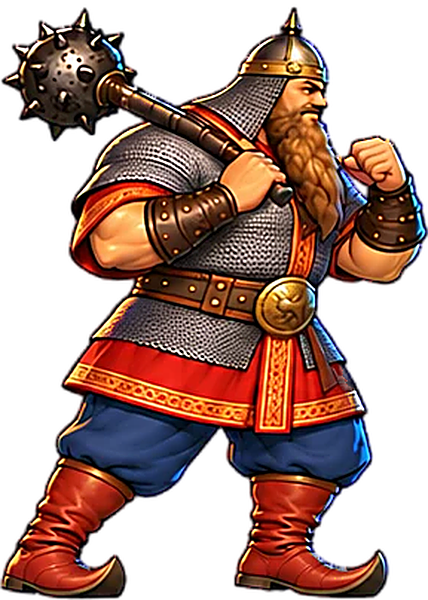
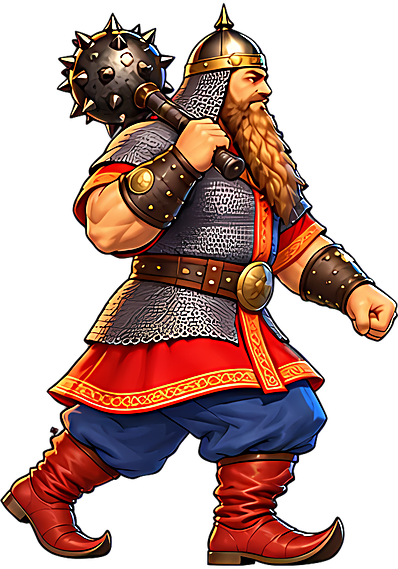
3.17.11: Илья — живая ходьба: свободная рука качается, булава подпрыгивает, тело оседает; кадры через апскейлер
Новые листы walk_f/walk_b (старые — old_walk_*_v2). process_fighter_art.py: upscale: true в sheets.json —
увеличить исходник нейросетью и у бойца обычного разрешения. Покачивание из кода для Ильи выключено —
тело качается на самих кадрах. Исправленные промпты (ровно две руки) — в docs/ART_FIGHTERS.md.

Claude-Session: https://claude.ai/code/session_01PuLoWavph6cepVw7e2qgzV

diff --git a/bitva-legend/tools/process_fighter_art.py b/bitva-legend/tools/process_fighter_art.py
@@ -15,6 +15,8 @@
        "h:<кадр>:<px>"   — кадр № <кадр> высотой <px> (1440p): для приседа, блока, прыжка;
        число           — масштаб вручную.
   grid: [столбцов, рядов] — лист сеткой (8 кадров = [4, 2], 12 = [4, 3]); порядок — слева направо, сверху вниз.
+  upscale: true — увеличить исходник нейросетью (tools/upscale.py) и у бойца обычного разрешения:
+           кадры чётче, размер в игре тот же.
   bob: 0.02 — ходьба: игра покачивает тело в такт шагу (насколько оседает, доля роста).
   reverse: true — проигрывать задом наперёд (шаг назад, нарисованный как шаг вперёд).
   hit / hit_end: номера ударных кадров (с 1) — показываются в активной фазе удара; до них — замах, после — возврат.
@@ -66,9 +68,10 @@ def clear_border(img: Image.Image, px: int = 3) -> Image.Image:
     return Image.fromarray(a, "RGBA")
 
 
-def src_image(p: Path, who: str) -> Image.Image:
-    """Исходник листа; для бойцов с двойным разрешением — увеличенный нейросетью (кэш в <папка>/.x2/)."""
-    if RES.get(who, 1) == 1:
+def src_image(p: Path, who: str, up: bool = False) -> Image.Image:
+    """Исходник листа; для бойцов с двойным разрешением (или листа с upscale) — увеличенный нейросетью
+    (кэш в <папка>/.x2/)."""
+    if RES.get(who, 1) == 1 and not up:
         return Image.open(p)
     cache = p.parent / ".x2" / (p.stem + ".png")
     if not cache.exists() or cache.stat().st_mtime < p.stat().st_mtime:
@@ -290,7 +293,7 @@ def main() -> int:
         name = p.stem
         opt = cfg.get(name, {})
         group = [f for _, f in sorted(parts[name])]
-        raw = src_image(group[0], who)
+        raw = src_image(group[0], who, opt.get("upscale", False))
         heights[name] = raw.height
         if len(group) == 1:
             frames = frames_of(chroma_key(raw), opt.get("frames", 0), opt.get("grid"))
@@ -301,7 +304,7 @@ def main() -> int:
             pf = opt.get("part_frames", 0)
             for i, f in enumerate(group):
                 n = pf[i] if isinstance(pf, list) else pf
-                part = frames_of(chroma_key(src_image(f, who)), n, opt.get("grid"))
+                part = frames_of(chroma_key(src_image(f, who, opt.get("upscale", False))), n, opt.get("grid"))
                 if "parts_fit" in opt:
                     k = _fit_scale(opt["parts_fit"][i], part, who)
                     part = [x.resize((max(1, round(x.width * k)), max(1, round(x.height * k))), Image.LANCZOS)

diff --git a/bitva-legend/docs/ART_FIGHTERS.md b/bitva-legend/docs/ART_FIGHTERS.md
@@ -1094,27 +1094,30 @@ Edit task. Image 1 is the approved model sheet of KOSCHEI THE DEATHLESS. Image 2
 Edit task. Image 1 is the approved model sheet of KOSCHEI THE DEATHLESS. Image 2 is his approved FIGHTING STANCE sprite sheet — copy his size, proportions and pose from its FIRST frame. Redraw THIS EXACT character — KOSCHEI THE DEATHLESS — copy his design faithfully: the same gaunt stooped body and long thin limbs, the same grey-green parchment-skinned old face with a long hooked nose, sunken cheeks and small glowing green eyes, the same long thin stringy grey hair and long grey beard, the same spiky tarnished gold crown, the same rusty dented steel cuirass with pauldrons, the small skull emblems and the heavy gold chains, the same ragged dark bottle-green robe with tarnished gold ornament and torn hem, the same old pointed black boots, the same bony hands with long dark claws and gold rings, the same long rusty straight sword with a gold cross-guard; the same colors, line thickness and shading. Do NOT redesign anything, do not add or remove details, only change the pose. SIZE LOCK: draw him at EXACTLY the same scale as in image 2 in every frame — the head, the crown, the hands and the sword are exactly the same size in all frames; only the pose changes, the proportions never change. New content: a sprite sheet of 4 animation frames in ONE horizontal row, left to right, evenly spaced with wide empty magenta space between the frames, no frame touches another or the image edge; make him as large as possible while keeping all frames the same scale. Strict side view facing RIGHT, full body visible. Anatomy rules for EVERY frame: correct human anatomy, EXACTLY TWO arms, two hands and two legs — count them, there is NO third arm and NO extra hand anywhere; natural joints; the head stays on top of the neck; the face is visible in profile. The sword stays in his right hand and never changes length. The soles stand on one flat horizontal ground line in every frame. Frame 1 and the last frame are EXACTLY the fighting stance pose of image 2 (its first frame) — the attack starts from this pose and returns to it. Animation: ROUNDHOUSE (forward + heavy kick) — a powerful spinning backhand slash with the sword. Frame 1: the stance. Frame 2: he spins — the back turned toward the viewer for a moment, the sword swung behind him, the robe and hair whirling around him. Frame 3: the sword swung around and forward to the RIGHT at head height in a wide horizontal arc, the arm fully extended, he faces RIGHT again, the robe still swirling. Frame 4: the stance again. Smooth fluid animation like Street Fighter III: the IDENTICAL character in every frame, only the pose changes, gradually from frame to frame. HD hand-painted cartoon style, bold clean dark-plum outline (#24141F), cel shading with 2–3 tones and soft gradients, crisp sharp details, no blur, no motion smear, no speed lines, no trails. Cold green light on the left side, a warm tarnished-gold rim light on the right. Background: perfectly flat solid magenta #FF00FF, no gradient, no floor, no cast shadow, NO dust clouds, no glow. Do not use pink, magenta, purple or violet anywhere on the character or effects. NO text, NO frame numbers, NO watermark, NO borders.
 ```
 
-## Илья: живая ходьба — руки и тело в движении (3.17.10)
+## Илья: живая ходьба — руки и тело в движении (3.17.10–3.17.11)
 
 Прежние листы ходьбы (3.4.5) рисовались «в стойке»: кулак у подбородка и булава на плече одинаковые во всех
-8 кадрах, двигаются только ноги — Илья идёт, как манекен. Новые листы: свободная рука качается против ног,
-булава подпрыгивает на плече, плечи поворачиваются, тело оседает и поднимается. 8 кадров на два шага —
-столько же, сколько сейчас (12 кадров в секунду): плавность даёт содержание кадров, а не их число.
+8 кадрах, двигаются только ноги — Илья идёт, как манекен. Новые листы: свободная рука качается, булава
+подпрыгивает на плече, плечи поворачиваются, тело оседает и поднимается. 8 кадров на два шага —
+столько же, сколько раньше (12 кадров в секунду): плавность даёт содержание кадров, а не их число.
 
-Игра сама добавляет лёгкое покачивание тела в такт шагу (`bob` в `sheets.json`, 2 % роста), так что
-на листе тело можно качать умеренно. Если новые кадры качаются сильно — уменьшить `bob` или убрать.
+✅ В игре с 3.17.11. Исходники пропущены через нейросетевой апскейлер (`"upscale": true` в `sheets.json`),
+прежние — `old_walk_f_v2`, `old_walk_b_v2`. Тело на новых листах качается само, поэтому покачивание из
+кода (`bob`) для Ильи выключено; оно остаётся для листов, где тело застыло.
 
-Положить в `art_src/fighters/ilya/` как `walk_f.png` и `walk_b.png` (старые — переименовать в `old_walk_f_v2`,
-`old_walk_b_v2`), затем `python3 tools/process_fighter_art.py ilya`.
+Первая попытка (без раздела ANATOMY) дала третью руку в кадрах 4–5: свободная рука — дальняя от зрителя,
+и когда она уходит за спину, нейросеть дорисовывает висящую руку на ближней стороне, занятой булавой.
+Поэтому в промптах прямо сказано, какая рука держит булаву и никогда не опускается, рука качается
+только перед телом и рук ровно две.
 
 ### Илья — шаг вперёд, 8 кадров (живая ходьба) (`ilya/walk_f`), 16:9, сетка 4×2
 
 ```
-Sprite sheet for a 2D fighting game: 8 animation frames of the SAME character arranged in a neat grid of 4 columns × 2 rows, in reading order (left to right, then the next row), each frame centered in its own equal cell with wide empty magenta space around it, no frame touches another frame or the image edge. The character is ILYA MUROMETS exactly as in the attached model sheet: cartoon giant bogatyr with a huge barrel chest, broad shoulders, short sturdy legs, thick light-brown beard to the belt, pointed conical steel shishak helmet with a chainmail aventail, short-sleeved chainmail shirt over a long crimson-red kaftan with golden ornamental trim, leather bracers with bronze studs, wide brown belt with a big round bronze buckle, baggy dark-blue trousers, red leather boots with upturned toes, massive spiked iron mace. Strict side view facing RIGHT, full body visible, the same size in every frame, the feet stand on the same flat horizontal ground line inside every cell. Animation: a heavy, confident, NATURAL WALKING FORWARD loop of a strong warrior — the WHOLE BODY moves, not only the legs. He carries the mace on his shoulder with the rear hand; the FREE ARM (the arm without the mace) SWINGS naturally, opposite to the legs: forward when the opposite leg is forward, back behind the hip when the same-side leg is forward. The mace bounces slightly on the shoulder with every step, the rear elbow moves with it. The shoulders and chest turn a little with each step, the beard and kaftan hem sway. The body sinks on each step and rises between steps. One full cycle (two steps) over 8 frames, walking IN PLACE (stays centered in each cell). Frame 1: LEFT leg forward with the heel touching the ground, right leg behind on its toes; the free arm swung FORWARD at chest height with a loose fist; the mace tilted slightly back. Frame 2: weight lands on the left leg, knee bent, body at its LOWEST; the free arm still forward and starting to come down; the mace dips down with the impact. Frame 3: the right leg lifts and passes under the body; the free arm swings DOWN past the hip; the mace level; body rising. Frame 4: body at its HIGHEST, the right leg swinging forward; the free arm swinging BACK behind the hip; the mace bounces up. Frame 5: RIGHT leg forward with the heel touching the ground, left leg behind on its toes; the free arm fully BACK behind the hip, the shoulders turned the other way. Frame 6: weight lands on the right leg, knee bent, body at its LOWEST; the free arm back, starting to come forward; the mace dips down. Frame 7: the left leg lifts and passes under the body; the free arm swings FORWARD past the hip; body rising. Frame 8: body at its HIGHEST, the left leg swinging forward; the free arm coming up to chest height, back to the pose before frame 1 so the loop is seamless. Every frame is a DIFFERENT pose — no two neighbouring frames look the same; the arm, the mace, the shoulders and the head all move from frame to frame. Smooth fluid animation like Street Fighter III: the IDENTICAL character design, proportions, size, colors and details in every frame — only the pose changes, and it changes gradually from frame to frame. HD hand-painted cartoon style like modern 2D fighting games (Skullgirls, BlazBlue), bold clean dark-plum outline (#24141F), cel shading with 2–3 tones and soft gradients, crisp sharp details. Warm key light from the upper left, cool pale-blue rim light on the right side. Background: perfectly flat solid magenta #FF00FF, no gradient, no floor, no cast shadow, no dust clouds. Do not use pink, magenta or purple anywhere on the character or effects. NO text, NO frame numbers, NO watermark, NO grid lines, NO borders.
+Sprite sheet for a 2D fighting game: 8 animation frames of the SAME character arranged in a neat grid of 4 columns × 2 rows, in reading order (left to right, then the next row), each frame centered in its own equal cell with wide empty magenta space around it, no frame touches another frame or the image edge. The character is ILYA MUROMETS exactly as in the attached model sheet: cartoon giant bogatyr with a huge barrel chest, broad shoulders, short sturdy legs, thick light-brown beard to the belt, pointed conical steel shishak helmet with a chainmail aventail, short-sleeved chainmail shirt over a long crimson-red kaftan with golden ornamental trim, leather bracers with bronze studs, wide brown belt with a big round bronze buckle, baggy dark-blue trousers, red leather boots with upturned toes, massive spiked iron mace. Strict side view facing RIGHT, full body visible, the same size in every frame, the feet stand on the same flat horizontal ground line inside every cell. ANATOMY — EXACTLY TWO ARMS AND TWO HANDS in every frame, never a third arm or an extra hand: (1) the NEAR arm (his left arm, the one closest to the viewer) is bent with the elbow down and the hand gripping the mace handle at the shoulder; the mace rests on that shoulder; this arm NEVER hangs down, NEVER swings and never lets go of the mace; (2) the FAR arm (his right arm, on the far side of the body) is the ONLY arm that swings. The far arm swings only IN FRONT of the body: from a loose fist forward at chest height down to the hand beside the front of the hip; it NEVER goes behind the back and is never drawn on the near side of the body. Animation: a heavy, confident, NATURAL WALKING FORWARD loop of a strong warrior — the whole body moves, not only the legs: the far arm swings opposite to the legs, the mace bounces slightly on the shoulder with every step, the shoulders turn a little, the beard and kaftan hem sway, the body sinks on each step and rises between steps. One full cycle (two steps) over 8 frames, walking IN PLACE (stays centered in each cell). Frame 1: LEFT leg forward with the heel touching the ground, right leg behind on its toes; the far arm swung FORWARD, fist at chest height. Frame 2: weight lands on the left leg, knee bent, body at its LOWEST; the far arm forward, starting to come down; the mace dips with the impact. Frame 3: the right leg lifts and passes under the body; the far arm halfway down, fist at belt height in front of the belly; body rising. Frame 4: body at its HIGHEST, the right leg swinging forward; the far arm DOWN, fist beside the front of the hip; the mace bounces up. Frame 5: RIGHT leg forward with the heel touching the ground, left leg behind on its toes; the far arm DOWN, fist beside the front of the hip, the shoulders turned slightly the other way. Frame 6: weight lands on the right leg, knee bent, body at its LOWEST; the far arm starting to come forward; the mace dips. Frame 7: the left leg lifts and passes under the body; the far arm halfway up, fist at belt height in front of the belly; body rising. Frame 8: body at its HIGHEST, the left leg swinging forward; the far arm coming up to chest height, back to the pose before frame 1 so the loop is seamless. In EVERY frame the near hand is on the mace at the shoulder and the only other visible hand is the far fist in front of the body. Every frame is a DIFFERENT pose — no two neighbouring frames look the same. Smooth fluid animation like Street Fighter III: the IDENTICAL character design, proportions, size, colors and details in every frame — only the pose changes, and it changes gradually from frame to frame. HD hand-painted cartoon style like modern 2D fighting games (Skullgirls, BlazBlue), bold clean dark-plum outline (#24141F), cel shading with 2–3 tones and soft gradients, crisp sharp details. Warm key light from the upper left, cool pale-blue rim light on the right side. Background: perfectly flat solid magenta #FF00FF, no gradient, no floor, no cast shadow, no dust clouds. Do not use pink, magenta or purple anywhere on the character or effects. NO text, NO frame numbers, NO watermark, NO grid lines, NO borders.
 ```
 
 ### Илья — шаг назад, 8 кадров (живая ходьба) (`ilya/walk_b`), 16:9, сетка 4×2
 
 ```
-Sprite sheet for a 2D fighting game: 8 animation frames of the SAME character arranged in a neat grid of 4 columns × 2 rows, in reading order (left to right, then the next row), each frame centered in its own equal cell with wide empty magenta space around it, no frame touches another frame or the image edge. The character is ILYA MUROMETS exactly as in the attached model sheet: cartoon giant bogatyr with a huge barrel chest, broad shoulders, short sturdy legs, thick light-brown beard to the belt, pointed conical steel shishak helmet with a chainmail aventail, short-sleeved chainmail shirt over a long crimson-red kaftan with golden ornamental trim, leather bracers with bronze studs, wide brown belt with a big round bronze buckle, baggy dark-blue trousers, red leather boots with upturned toes, massive spiked iron mace. Strict side view facing RIGHT, full body visible, the same size in every frame, the feet stand on the same flat horizontal ground line inside every cell. Animation: WALKING BACKWARD loop — retreating to the LEFT while still facing right, body leaning slightly back, wary heavy steps, the WHOLE BODY moves, not only the legs. The mace rests on his shoulder in the rear hand and bounces slightly with every step; the FREE ARM (the arm without the mace) is held loosely in front of the chest and moves with the steps: it pushes forward a little as each foot reaches back and pulls in toward the chest as the weight lands. The shoulders turn a little, the beard and kaftan hem sway, the body sinks on each step and rises between steps. One full cycle (two steps) over 8 frames, walking IN PLACE (stays centered in each cell). Frame 1: LEFT leg reaches back with the toe touching the ground; the free arm pushed forward. Frame 2: weight shifts back onto the left leg, knee bent, body at its LOWEST; the free arm pulled in to the chest; the mace dips. Frame 3: the right leg lifts and slides back under the body; body rising; the free arm at mid position. Frame 4: body at its HIGHEST, the right leg passing the left; the mace bounces up; the free arm moving forward. Frame 5: RIGHT leg reaches back with the toe touching the ground; the free arm pushed forward, the shoulders turned the other way. Frame 6: weight shifts back onto the right leg, body at its LOWEST; the free arm pulled in; the mace dips. Frame 7: the left leg slides back under the body; body rising. Frame 8: body at its HIGHEST, back to the pose before frame 1 so the loop is seamless. Every frame is a DIFFERENT pose — no two neighbouring frames look the same. Smooth fluid animation like Street Fighter III: the IDENTICAL character design, proportions, size, colors and details in every frame — only the pose changes, and it changes gradually from frame to frame. HD hand-painted cartoon style like modern 2D fighting games (Skullgirls, BlazBlue), bold clean dark-plum outline (#24141F), cel shading with 2–3 tones and soft gradients, crisp sharp details. Warm key light from the upper left, cool pale-blue rim light on the right side. Background: perfectly flat solid magenta #FF00FF, no gradient, no floor, no cast shadow, no dust clouds. Do not use pink, magenta or purple anywhere on the character or effects. NO text, NO frame numbers, NO watermark, NO grid lines, NO borders.
+Sprite sheet for a 2D fighting game: 8 animation frames of the SAME character arranged in a neat grid of 4 columns × 2 rows, in reading order (left to right, then the next row), each frame centered in its own equal cell with wide empty magenta space around it, no frame touches another frame or the image edge. The character is ILYA MUROMETS exactly as in the attached model sheet: cartoon giant bogatyr with a huge barrel chest, broad shoulders, short sturdy legs, thick light-brown beard to the belt, pointed conical steel shishak helmet with a chainmail aventail, short-sleeved chainmail shirt over a long crimson-red kaftan with golden ornamental trim, leather bracers with bronze studs, wide brown belt with a big round bronze buckle, baggy dark-blue trousers, red leather boots with upturned toes, massive spiked iron mace. Strict side view facing RIGHT, full body visible, the same size in every frame, the feet stand on the same flat horizontal ground line inside every cell. ANATOMY — EXACTLY TWO ARMS AND TWO HANDS in every frame, never a third arm or an extra hand: (1) the NEAR arm (his left arm, the one closest to the viewer) is bent with the elbow down and the hand gripping the mace handle at the shoulder; the mace rests on that shoulder; this arm NEVER hangs down, NEVER swings and never lets go of the mace; (2) the FAR arm (his right arm, on the far side of the body) is held in front of the chest as a loose guard and is the ONLY arm that moves; it always stays IN FRONT of the body, never goes behind the back and is never drawn on the near side of the body. Animation: WALKING BACKWARD loop — retreating to the LEFT while still facing right, body leaning slightly back, wary heavy steps, the whole body moves, not only the legs: the far fist pushes forward a little as each foot reaches back and pulls in toward the chest as the weight lands, the mace bounces slightly on the shoulder, the shoulders turn a little, the beard and kaftan hem sway, the body sinks on each step and rises between steps. One full cycle (two steps) over 8 frames, walking IN PLACE (stays centered in each cell). Frame 1: LEFT leg reaches back with the toe touching the ground; the far fist pushed forward at chest height. Frame 2: weight shifts back onto the left leg, knee bent, body at its LOWEST; the far fist pulled in close to the chest; the mace dips. Frame 3: the right leg lifts and slides back under the body; body rising; the far fist between chest and forward. Frame 4: body at its HIGHEST, the right leg passing the left; the mace bounces up; the far fist moving forward. Frame 5: RIGHT leg reaches back with the toe touching the ground; the far fist pushed forward, the shoulders turned slightly the other way. Frame 6: weight shifts back onto the right leg, body at its LOWEST; the far fist pulled in to the chest; the mace dips. Frame 7: the left leg slides back under the body; body rising. Frame 8: body at its HIGHEST, back to the pose before frame 1 so the loop is seamless. In EVERY frame the near hand is on the mace at the shoulder and the only other visible hand is the far fist in front of the chest. Every frame is a DIFFERENT pose — no two neighbouring frames look the same. Smooth fluid animation like Street Fighter III: the IDENTICAL character design, proportions, size, colors and details in every frame — only the pose changes, and it changes gradually from frame to frame. HD hand-painted cartoon style like modern 2D fighting games (Skullgirls, BlazBlue), bold clean dark-plum outline (#24141F), cel shading with 2–3 tones and soft gradients, crisp sharp details. Warm key light from the upper left, cool pale-blue rim light on the right side. Background: perfectly flat solid magenta #FF00FF, no gradient, no floor, no cast shadow, no dust clouds. Do not use pink, magenta or purple anywhere on the character or effects. NO text, NO frame numbers, NO watermark, NO grid lines, NO borders.
 ```
